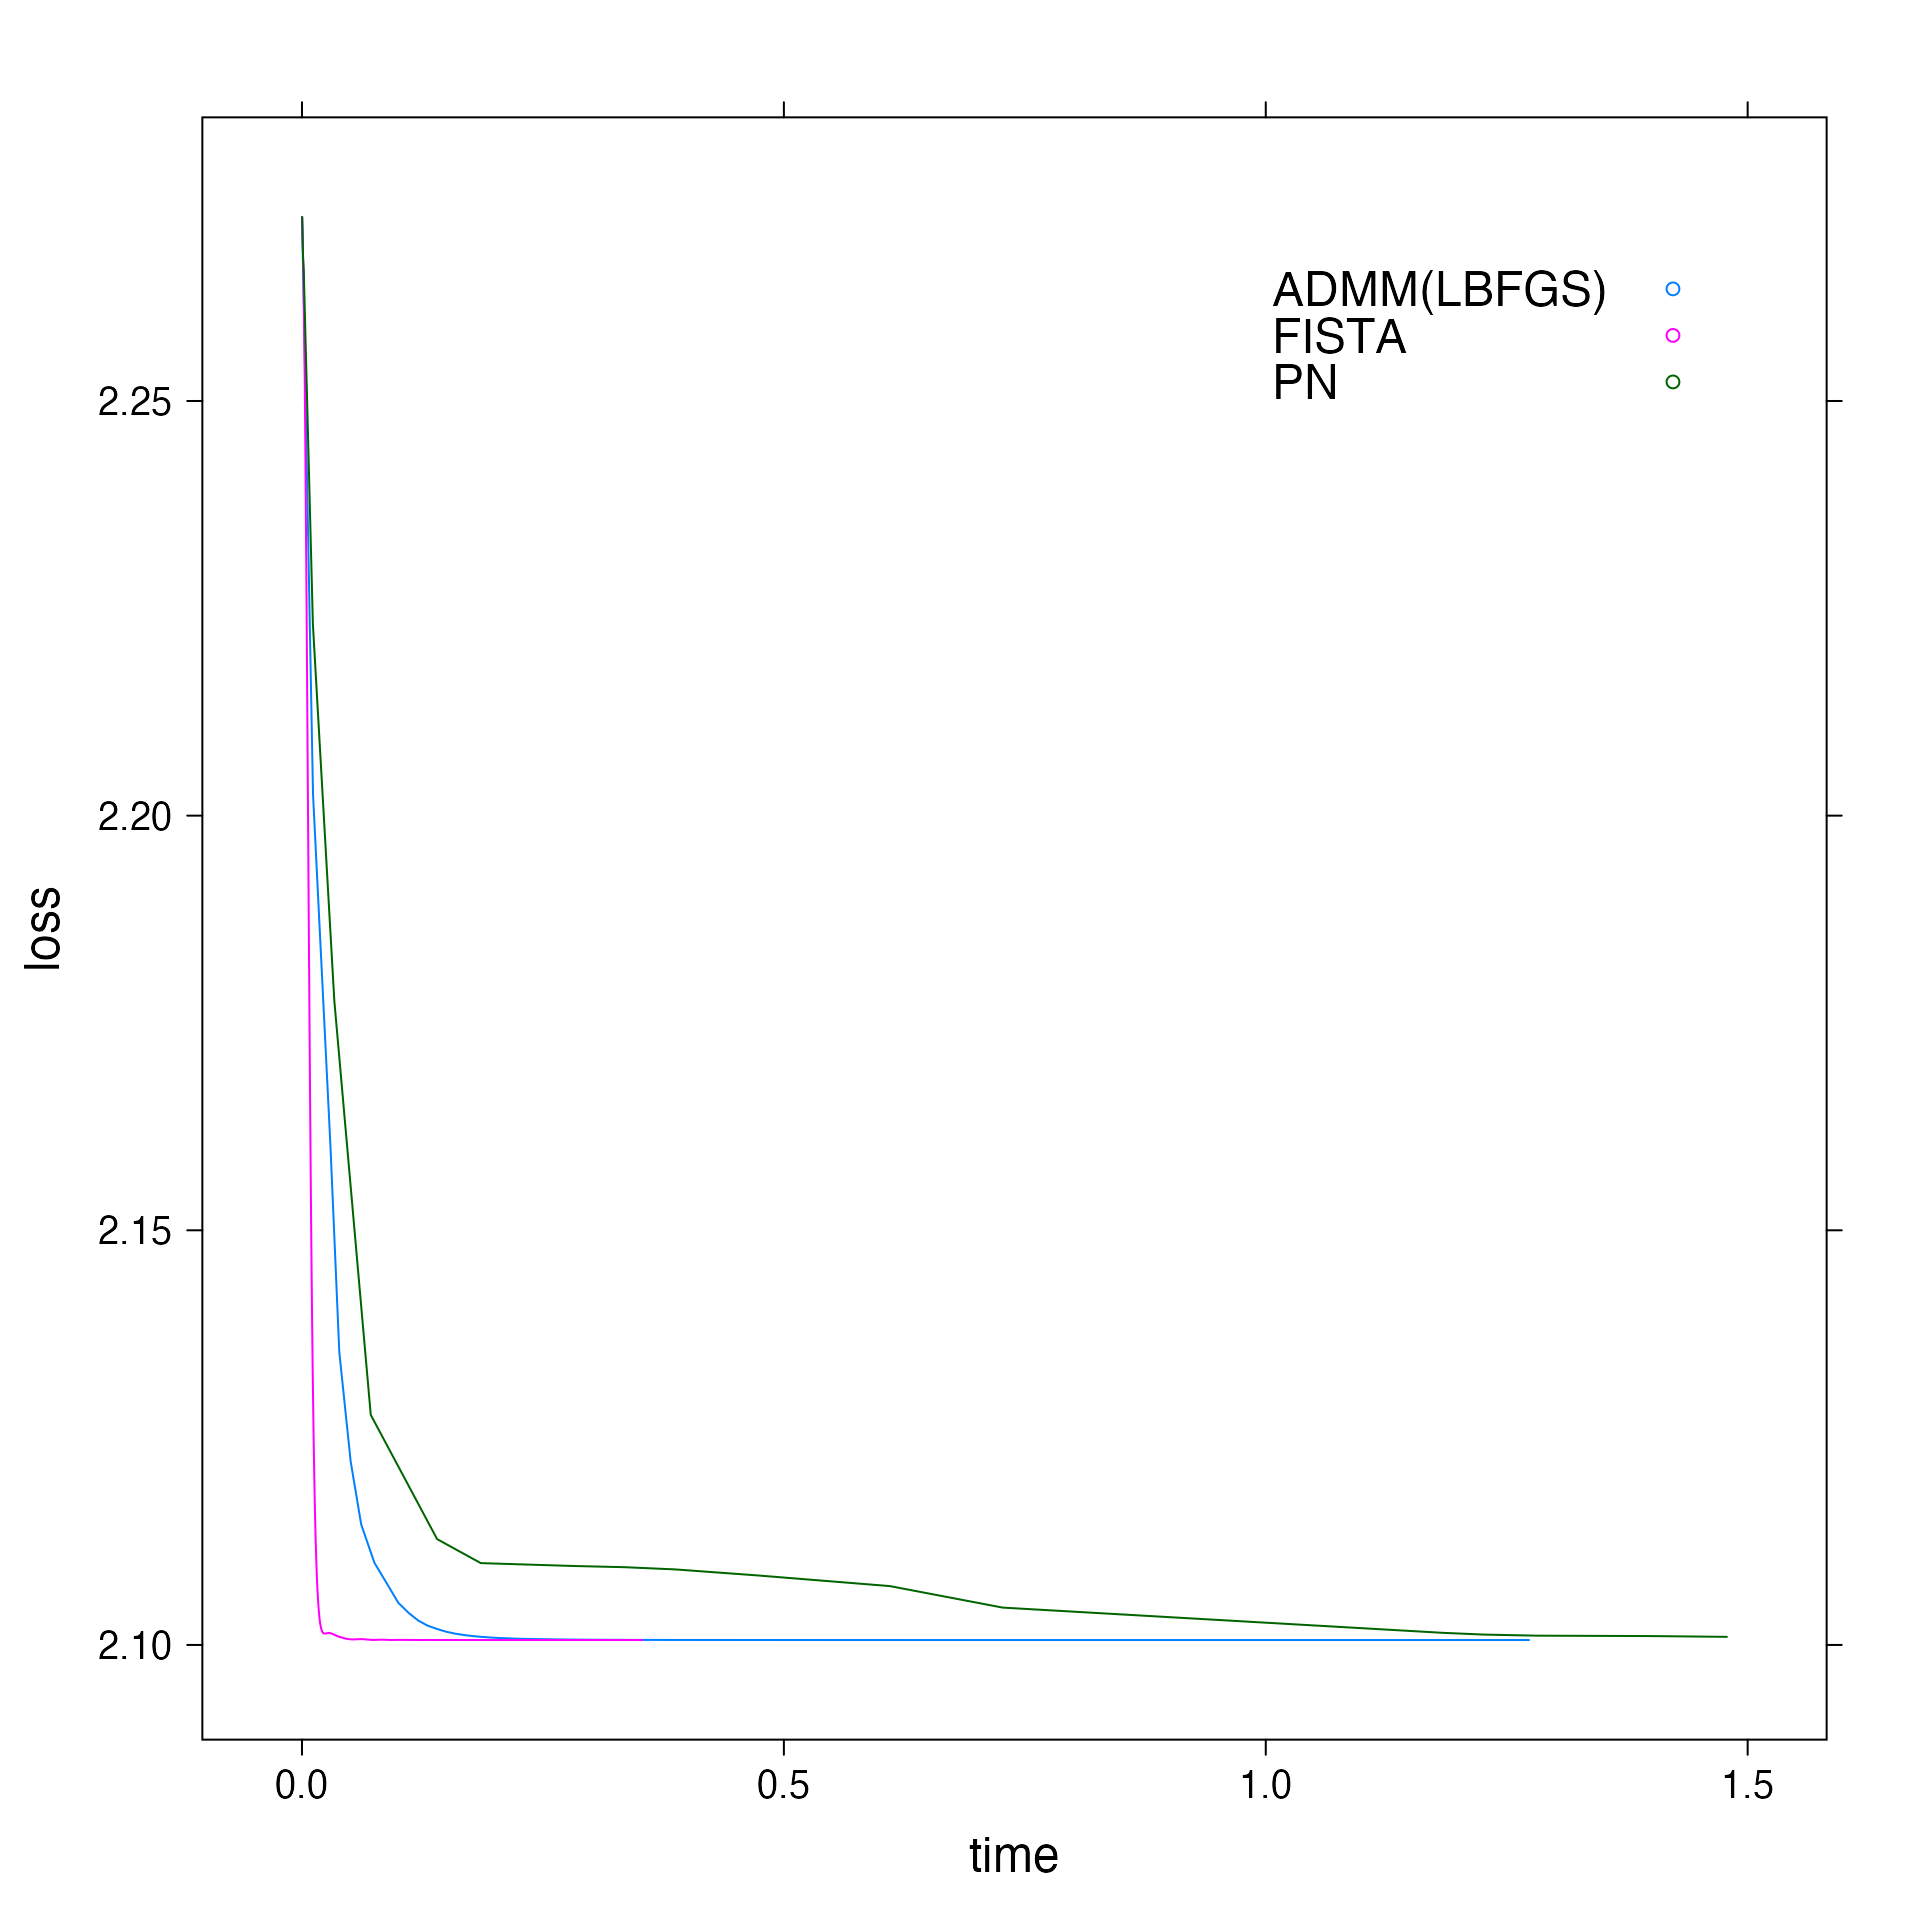
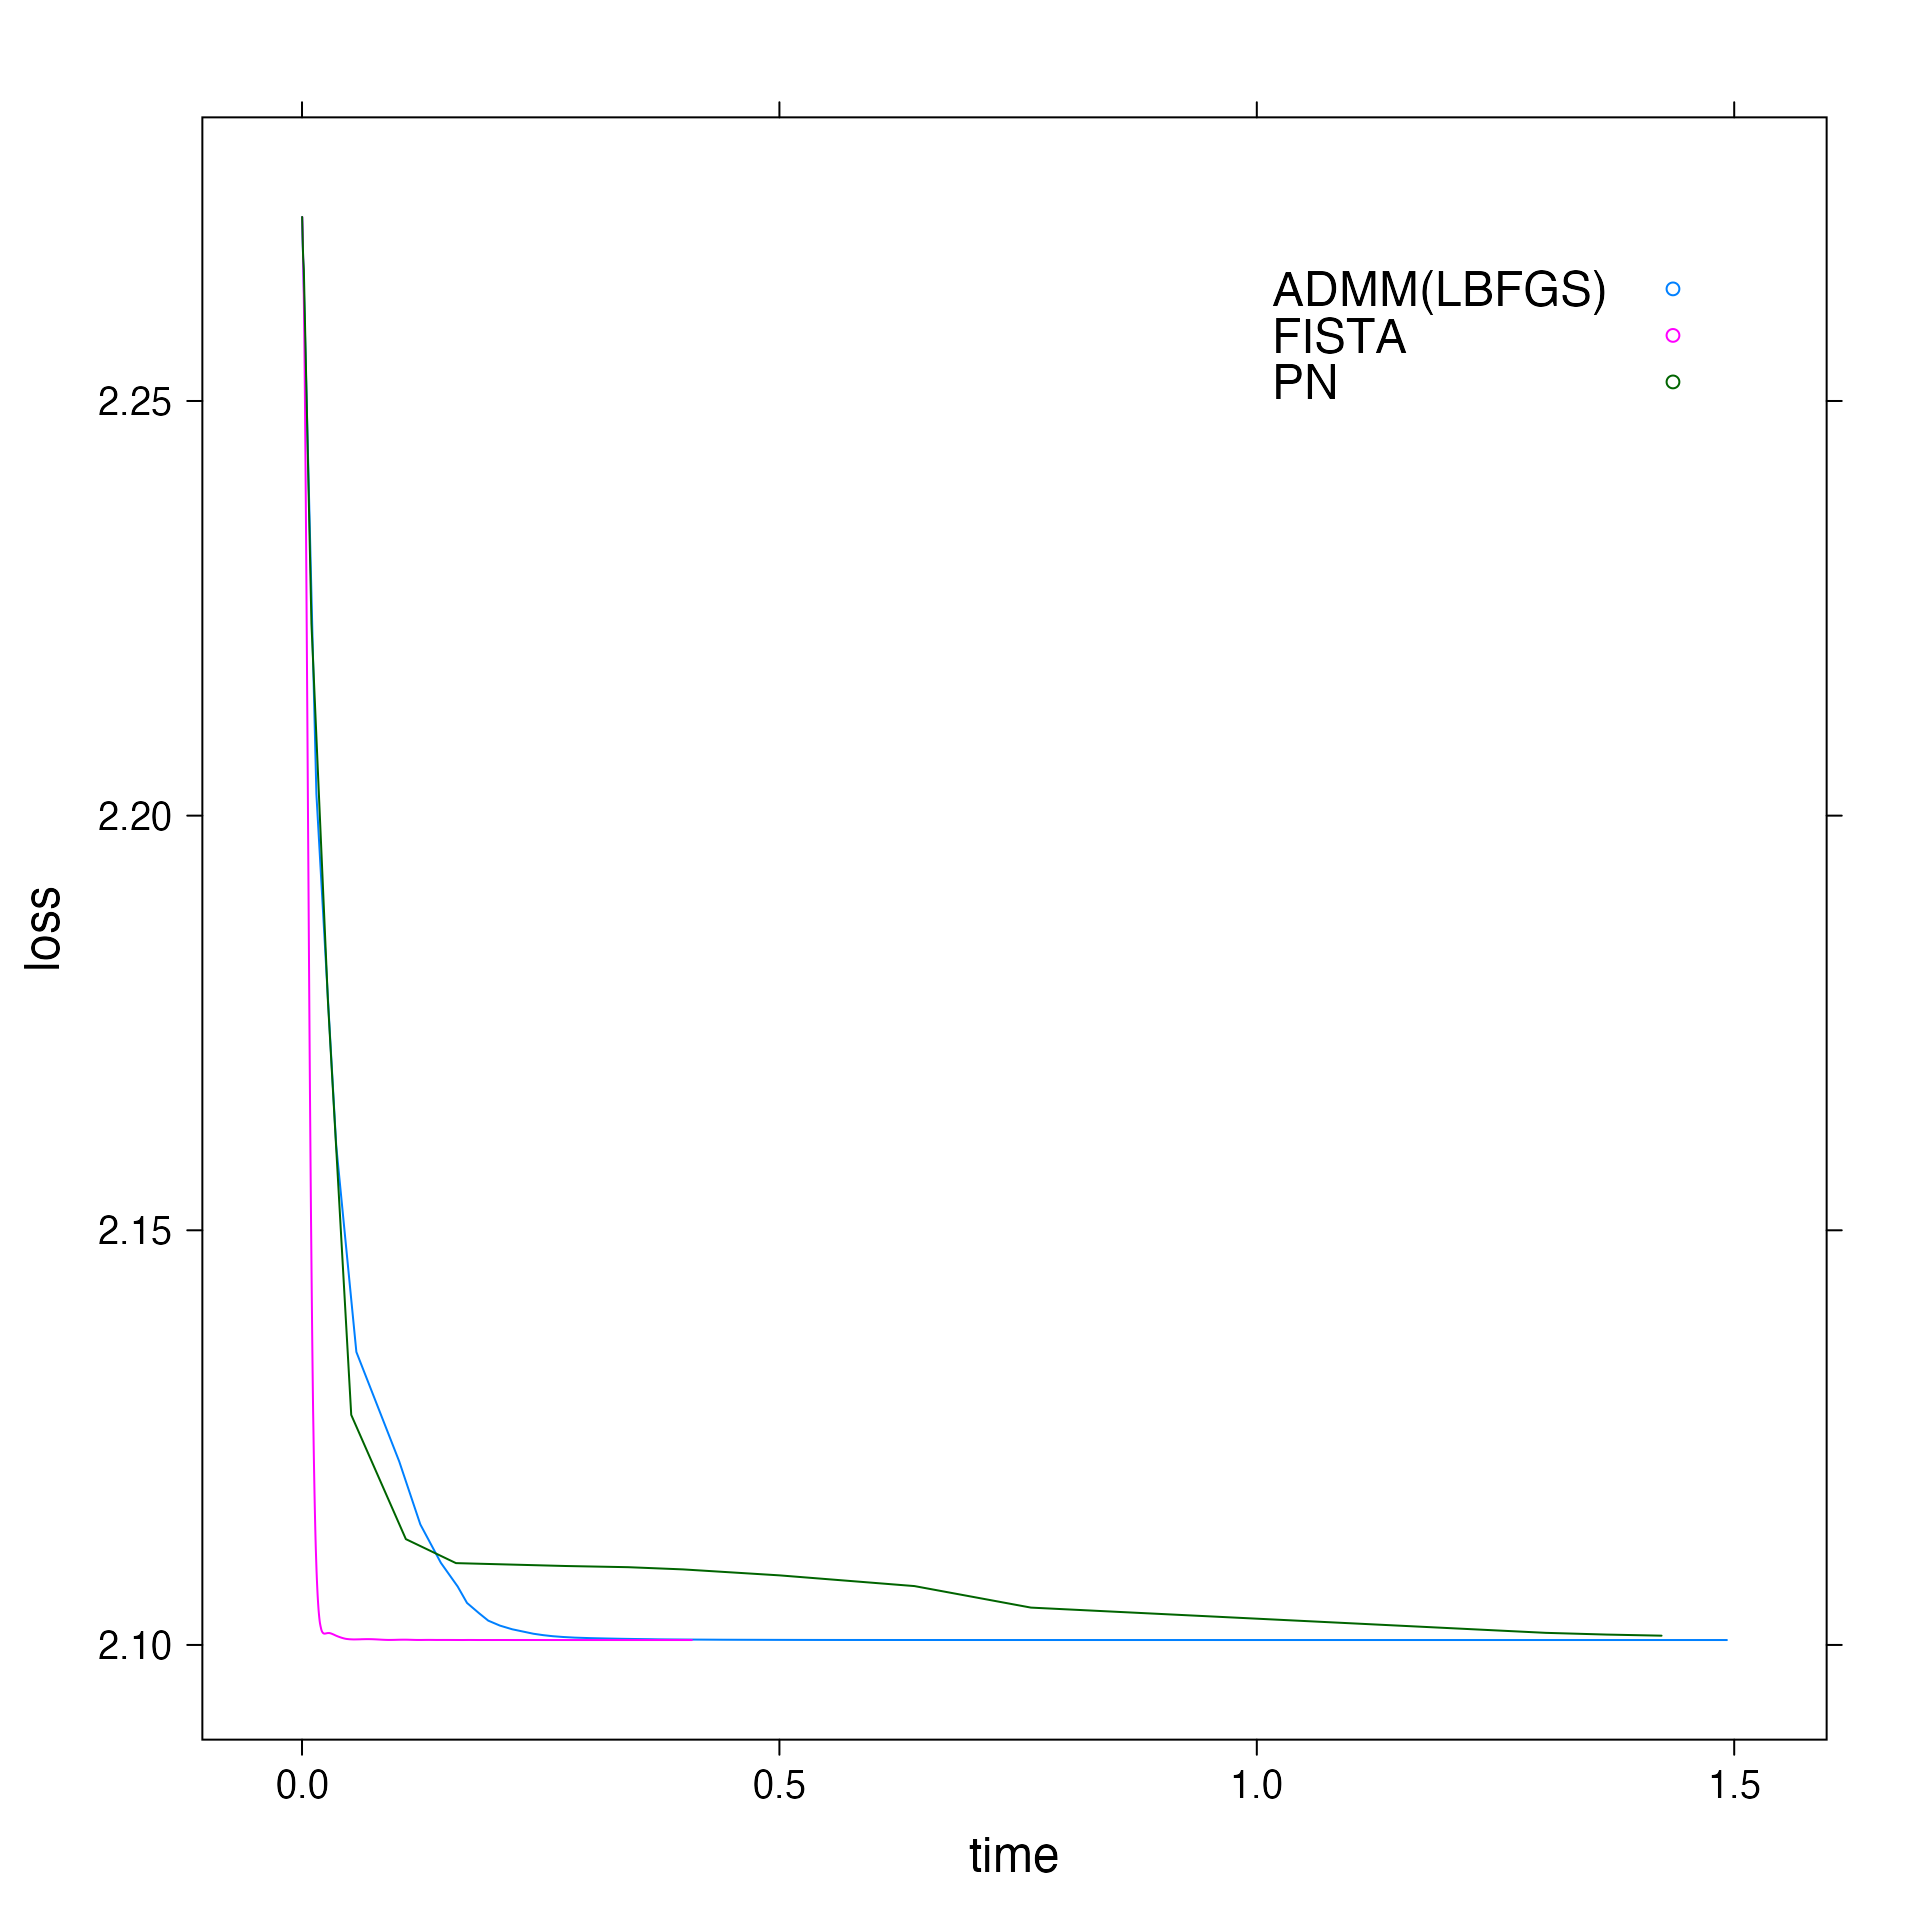
Built site for solvers: 1.0@623e878

diff --git a/articles/multinomial.html b/articles/multinomial.html
@@ -109,11 +109,11 @@
 <span class="fu"><a href="https://rdrr.io/r/base/Random.html">set.seed</a></span>(<span class="fl">34</span>)
 <span class="kw">d</span> <span class="op">&lt;-</span> <span class="fu"><a href="../reference/randomProblem.html">randomProblem</a></span>(<span class="fl">11</span>, <span class="fl">1</span>,  response=<span class="st">"multinomial"</span>, density = <span class="fl">1</span>, rho=<span class="fl">0</span>)
 <span class="kw">f</span> <span class="op">&lt;-</span> <span class="fu"><a href="../reference/getBenchmarks.html">getBenchmarks</a></span>(<span class="kw">d</span><span class="op">$</span><span class="kw">x</span>, <span class="kw">d</span><span class="op">$</span><span class="kw">y</span>, family=<span class="st">"multinomial"</span>, path_length = <span class="fl">100</span>)
-<span class="co">#&gt; [1] "Time taken by FISTA        :  0.18700291"</span>
-<span class="co">#&gt; [1] "Time taken by ADMM(NR)     :  0.921408233"</span>
-<span class="co">#&gt; [1] "Time taken by ADMM(BFGS)   :  2.384906603"</span>
-<span class="co">#&gt; [1] "Time taken by ADMM(L-BFGS) :  1.582226949"</span>
-<span class="co">#&gt; [1] "Time taken by PN           :  3.124966306"</span>
+<span class="co">#&gt; [1] "Time taken by FISTA        :  0.268020699"</span>
+<span class="co">#&gt; [1] "Time taken by ADMM(NR)     :  1.183703223"</span>
+<span class="co">#&gt; [1] "Time taken by ADMM(BFGS)   :  2.98473861"</span>
+<span class="co">#&gt; [1] "Time taken by ADMM(L-BFGS) :  1.910052513"</span>
+<span class="co">#&gt; [1] "Time taken by PN           :  3.870624062"</span>
 </pre></div>
 </div>
 </div>

diff --git a/articles/gaussian.html b/articles/gaussian.html
@@ -109,11 +109,11 @@
 <span class="fu"><a href="https://rdrr.io/r/base/Random.html">set.seed</a></span>(<span class="fl">34</span>)
 <span class="kw">d</span> <span class="op">&lt;-</span> <span class="fu"><a href="../reference/randomProblem.html">randomProblem</a></span>(<span class="fl">11</span>, <span class="fl">1</span>,  response=<span class="st">"gaussian"</span>, density = <span class="fl">1</span>, rho=<span class="fl">0</span>)
 <span class="kw">f</span> <span class="op">&lt;-</span> <span class="fu"><a href="../reference/getBenchmarks.html">getBenchmarks</a></span>(<span class="kw">d</span><span class="op">$</span><span class="kw">x</span>, <span class="kw">d</span><span class="op">$</span><span class="kw">y</span>, family=<span class="st">"gaussian"</span>, path_length = <span class="fl">100</span>)
-<span class="co">#&gt; [1] "Time taken by FISTA        :  0.001070043"</span>
-<span class="co">#&gt; [1] "Time taken by ADMM(NR)     :  0.012712194"</span>
-<span class="co">#&gt; [1] "Time taken by ADMM(BFGS)   :  0.006289296"</span>
-<span class="co">#&gt; [1] "Time taken by ADMM(L-BFGS) :  0.006822883"</span>
-<span class="co">#&gt; [1] "Time taken by PN           :  0.162890104"</span>
+<span class="co">#&gt; [1] "Time taken by FISTA        :  0.000920907"</span>
+<span class="co">#&gt; [1] "Time taken by ADMM(NR)     :  0.012909983"</span>
+<span class="co">#&gt; [1] "Time taken by ADMM(BFGS)   :  0.00641842"</span>
+<span class="co">#&gt; [1] "Time taken by ADMM(L-BFGS) :  0.007134423"</span>
+<span class="co">#&gt; [1] "Time taken by PN           :  0.187304294"</span>
 </pre></div>
 </div>
 </div>

diff --git a/articles/binomial.html b/articles/binomial.html
@@ -109,11 +109,11 @@
 <span class="fu"><a href="https://rdrr.io/r/base/Random.html">set.seed</a></span>(<span class="fl">34</span>)
 <span class="kw">d</span> <span class="op">&lt;-</span> <span class="fu"><a href="../reference/randomProblem.html">randomProblem</a></span>(<span class="fl">11</span>, <span class="fl">1</span>,  response=<span class="st">"binomial"</span>, density = <span class="fl">1</span>, rho=<span class="fl">0</span>)
 <span class="kw">f</span> <span class="op">&lt;-</span> <span class="fu"><a href="../reference/getBenchmarks.html">getBenchmarks</a></span>(<span class="kw">d</span><span class="op">$</span><span class="kw">x</span>, <span class="kw">d</span><span class="op">$</span><span class="kw">y</span>, family=<span class="st">"binomial"</span>, path_length = <span class="fl">100</span>)
-<span class="co">#&gt; [1] "Time taken by FISTA        :  0.339340267"</span>
-<span class="co">#&gt; [1] "Time taken by ADMM(NR)     :  1.859449723"</span>
-<span class="co">#&gt; [1] "Time taken by ADMM(BFGS)   :  1.65065824"</span>
-<span class="co">#&gt; [1] "Time taken by ADMM(L-BFGS) :  1.21695224"</span>
-<span class="co">#&gt; [1] "Time taken by PN           :  3.265102156"</span>
+<span class="co">#&gt; [1] "Time taken by FISTA        :  0.300385063"</span>
+<span class="co">#&gt; [1] "Time taken by ADMM(NR)     :  1.69132242"</span>
+<span class="co">#&gt; [1] "Time taken by ADMM(BFGS)   :  1.889514657"</span>
+<span class="co">#&gt; [1] "Time taken by ADMM(L-BFGS) :  1.680073684"</span>
+<span class="co">#&gt; [1] "Time taken by PN           :  4.249034659"</span>
 </pre></div>
 </div>
 </div>

diff --git a/index.html b/index.html
@@ -100,7 +100,14 @@
 <h3 class="hasAnchor">
 <a href="#targets-achieved" class="anchor"></a>Targets Achieved</h3>
 <ul>
-<li>In addition to existing <strong>FISTA</strong> in SLOPE package, we managed to implemented the following algorithms: - <strong>Alternating Direction Method of Multipliers (ADMM)</strong>. Our implementation further provides the choice of optimization algorithm to solve the subproblem : <strong>Newton-Raphson</strong>’s algorithm, Broyden–Fletcher–Goldfarb–Shanno (<strong>BFGS</strong>) algorithm and Limited-memory BFGS (<strong>L-BFGS</strong>) algorithm. - <strong>Proximal Newton</strong> algorithm. This also supports Quasi flavoured variant which uses FISTA to solve the sub problem.</li>
+<li>In addition to existing <strong>FISTA</strong> in SLOPE package, we managed to implemented the following algorithms
+<ul>
+<li>
+<strong>Alternating Direction Method of Multipliers (ADMM)</strong>. Our implementation further provides the choice of optimization algorithm to solve the subproblem : <strong>Newton-Raphson</strong>’s algorithm, Broyden–Fletcher–Goldfarb–Shanno (<strong>BFGS</strong>) algorithm and Limited-memory BFGS (<strong>L-BFGS</strong>) algorithm.</li>
+<li>
+<strong>Proximal Newton</strong> algorithm. This also supports Quasi flavoured variant which uses FISTA to solve the sub problem.</li>
+</ul>
+</li>
 <li>Benchmarked the algorithms (vignettes available in the article tab) and discovered usecases where FISTA is outperformed.</li>
 <li>We also discovered few bugs in the existing SLOPE package’s code.</li>
 </ul>

diff --git a/articles/compare_opt_algo.html b/articles/compare_opt_algo.html
@@ -120,11 +120,11 @@
 <div class="sourceCode" id="cb4"><pre class="downlit">
 <span class="co"># Comparing total execution time</span>
 <span class="fu"><a href="https://rdrr.io/r/base/print.html">print</a></span>(<span class="kw">admm_nr</span><span class="op">$</span><span class="kw">total_time</span>)
-<span class="co">#&gt; [1] 2.803488</span>
+<span class="co">#&gt; [1] 3.401722</span>
 <span class="fu"><a href="https://rdrr.io/r/base/print.html">print</a></span>(<span class="kw">admm_bfgs</span><span class="op">$</span><span class="kw">total_time</span>)
-<span class="co">#&gt; [1] 9.253482</span>
+<span class="co">#&gt; [1] 11.22594</span>
 <span class="fu"><a href="https://rdrr.io/r/base/print.html">print</a></span>(<span class="kw">admm_lbfgs</span><span class="op">$</span><span class="kw">total_time</span>)
-<span class="co">#&gt; [1] 9.770615</span>
+<span class="co">#&gt; [1] 14.92516</span>
 </pre></div>
 <p>Now, these fits cannot be directly used to plot as they contain a lot of parameter so we’ll call a utility function that merges the relevant parameter and returns a dataframe.</p>
 <div class="sourceCode" id="cb5"><pre class="downlit">

diff --git a/articles/compare-fista-admm-pn.html b/articles/compare-fista-admm-pn.html
@@ -118,11 +118,11 @@
 <div class="sourceCode" id="cb4"><pre class="downlit">
 <span class="co"># Comparing total execution time</span>
 <span class="fu"><a href="https://rdrr.io/r/base/print.html">print</a></span>(<span class="kw">fista_fit</span><span class="op">$</span><span class="kw">total_time</span>)
-<span class="co">#&gt; [1] 0.3539495</span>
+<span class="co">#&gt; [1] 0.4092264</span>
 <span class="fu"><a href="https://rdrr.io/r/base/print.html">print</a></span>(<span class="kw">admm_fit</span><span class="op">$</span><span class="kw">total_time</span>)
-<span class="co">#&gt; [1] 1.282969</span>
+<span class="co">#&gt; [1] 1.813726</span>
 <span class="fu"><a href="https://rdrr.io/r/base/print.html">print</a></span>(<span class="kw">pn_fit</span><span class="op">$</span><span class="kw">total_time</span>)
-<span class="co">#&gt; [1] 21.26896</span>
+<span class="co">#&gt; [1] 26.43019</span>
 </pre></div>
 <p>Now, these fits cannot be directly used to plot as they contain a lot of parameter so we’ll call a utility function that merges the relevant parameter and returns a dataframe.</p>
 <div class="sourceCode" id="cb5"><pre class="downlit">
